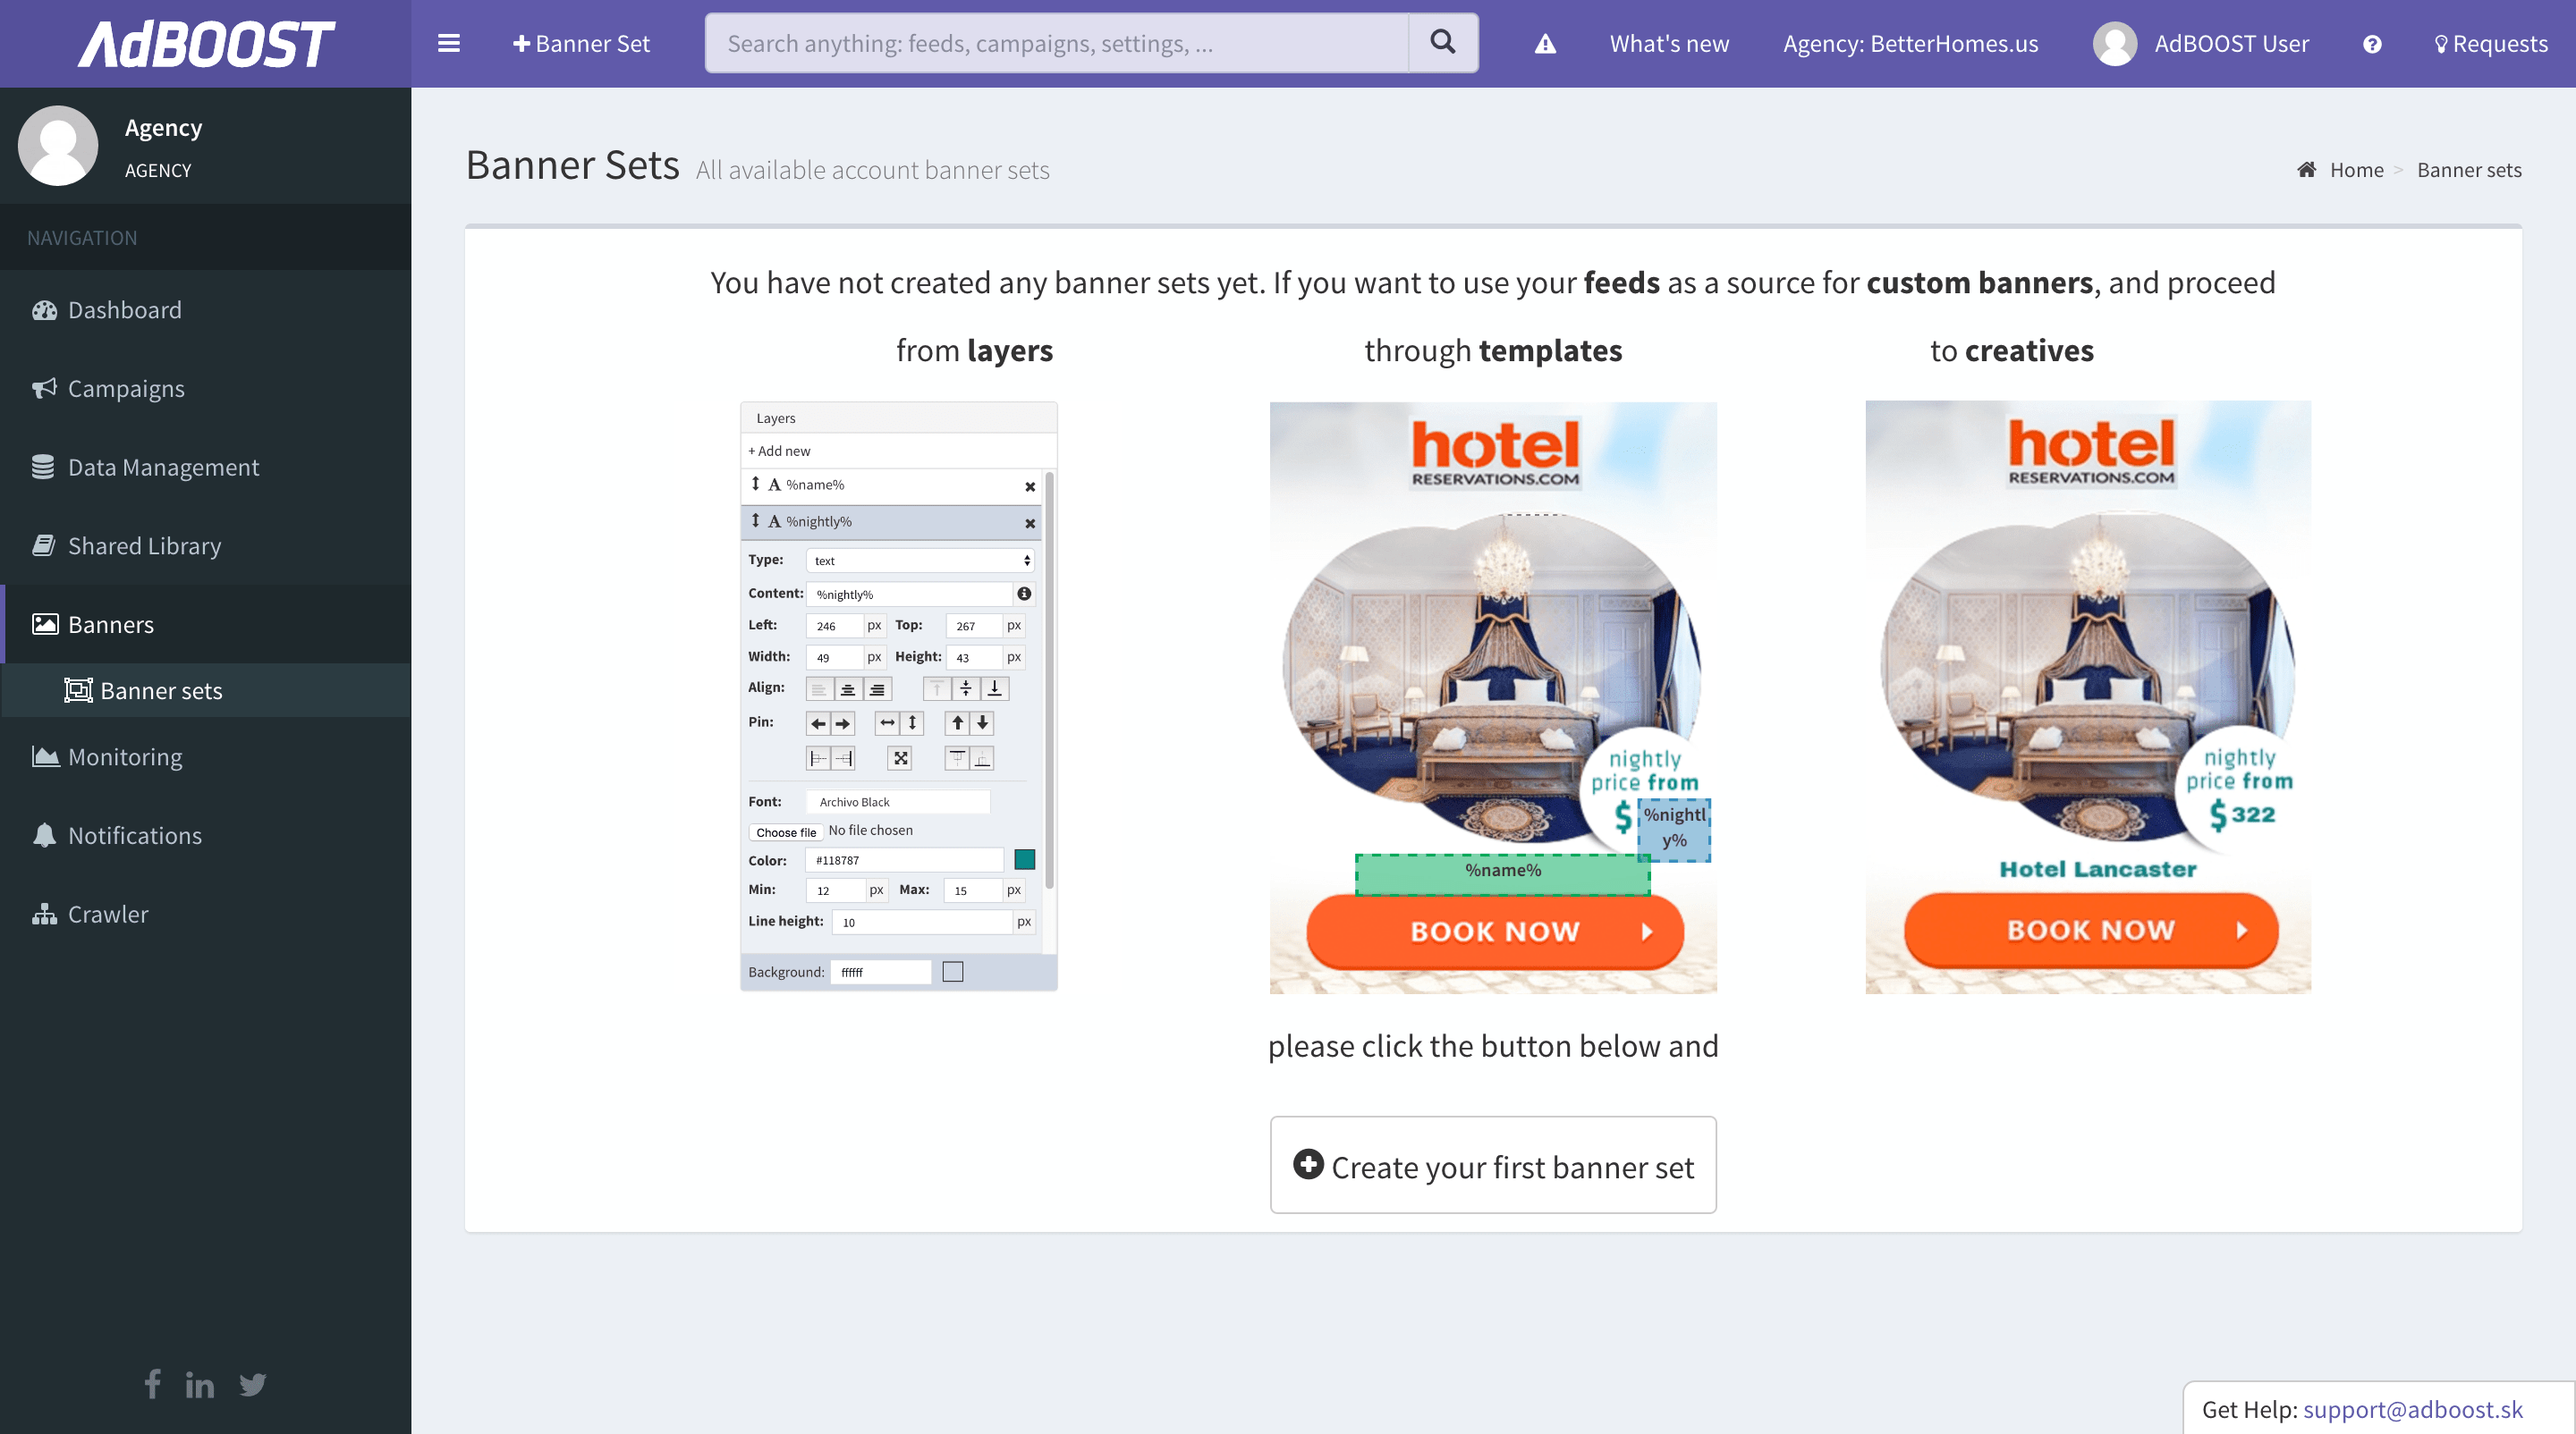
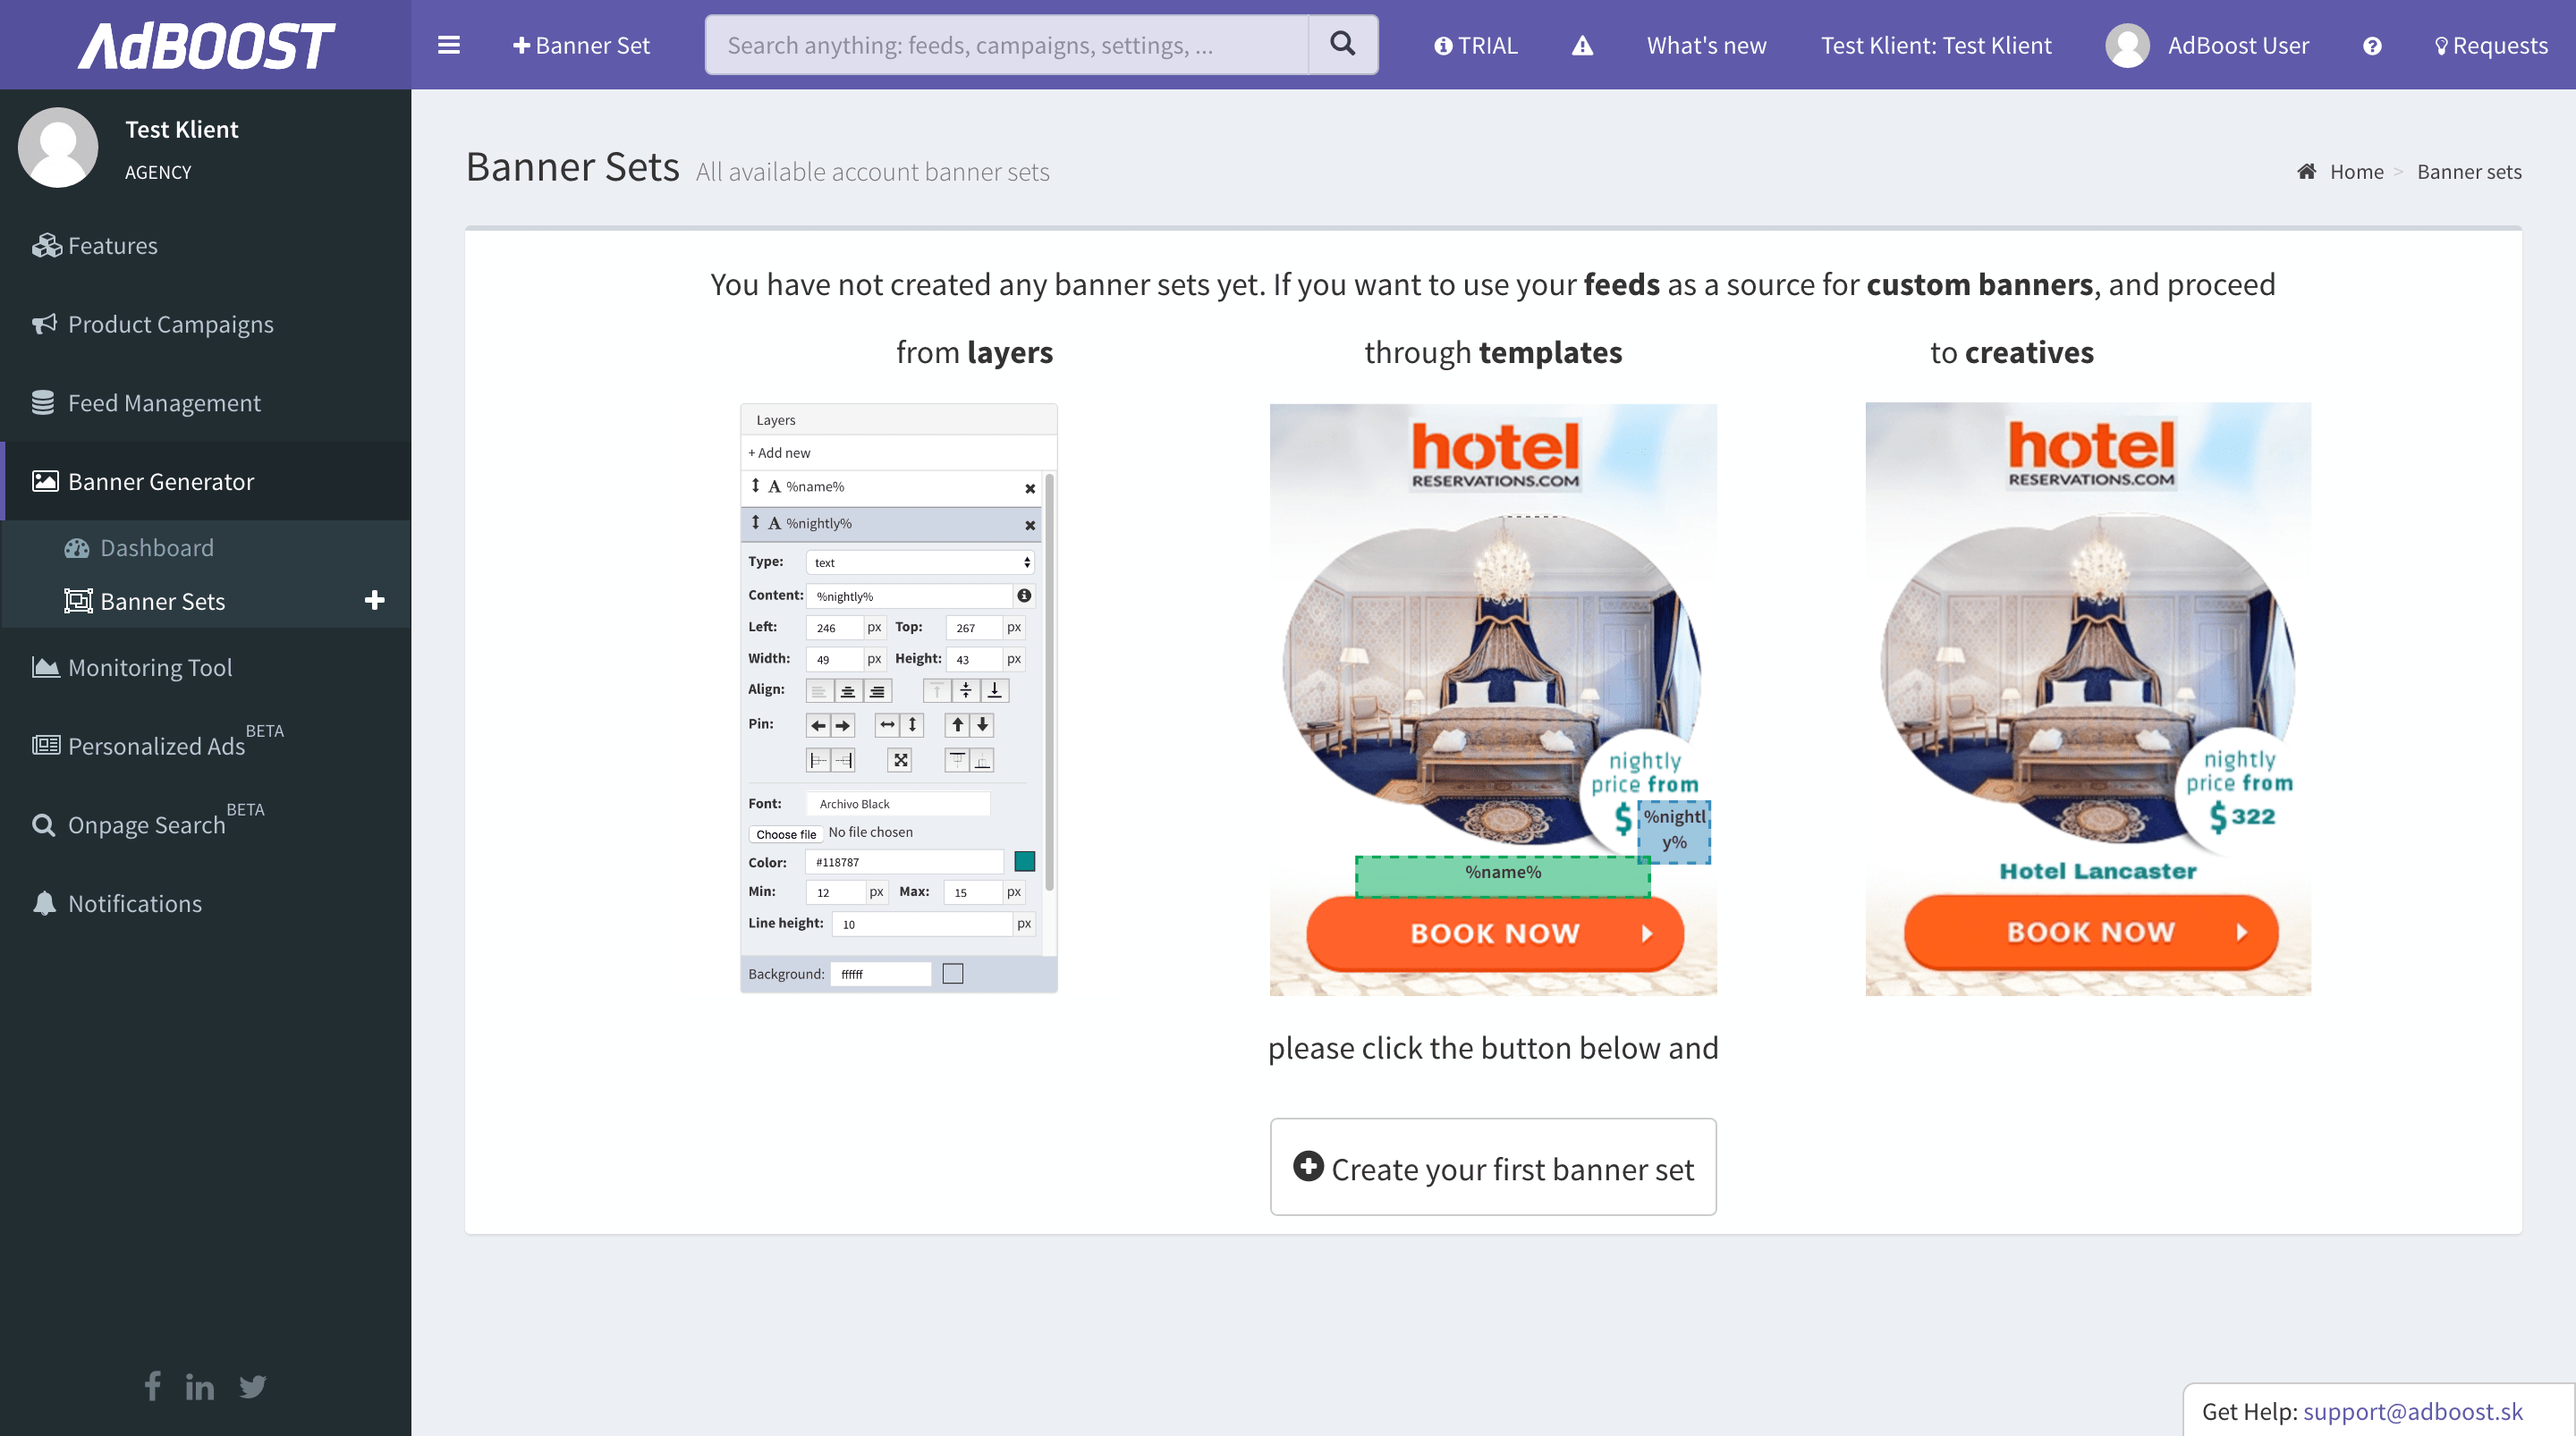
Content update

diff --git a/_posts/2017-01-30-feed-exports.md b/_posts/2017-01-30-feed-exports.md
@@ -15,15 +15,19 @@ tags: [feed, export]
 
 ## Basic setup
 
-In left context menu choose <i class="fa fa-database"></i> Data Management > <i class="fa fa-share"></i> Exports.<br/>
+In left context menu choose <i class="fa fa-database"></i> Feed Management > <i class="fa fa-dashboard"></i> Dashboard or click to large "<i class="fa fa-database"></i> Feed management" icon <br/> on the main dashboard<br/>
 
-{% include image_tag.html url="/images/exports/LeftMenuExport.png" alt="Left Menu Export" style="height:200px;" %}
+{% include image_tag.html url="/images/exports/LeftMenuExport.png" alt="Left Menu Export" style="height:350px;" %}
 
-If you have not created any export yet, you will be greeted by welcome screen consisting of selection of available target networks.
+If you have not created any export yet, you will be greeted by exports dashboard with empty statistics and button that will redirect you to export form. Same applies to <i class="fa fa-plus"></i> icon next to "Exports" in left menu.
+
+{% include image_tag.html url="/images/exports/EmptyDashboard.png" alt="Exports Empty Dashboard" style="" %}
+
+If you click directly to "Exports" in left menu instead, you will be greeted by welcome screen consisting of selection of available target networks.
 
 {% include image_tag.html url="/images/exports/ExportGuidedSetup.png" alt="Export Guided Setup" style="" %}
 
-If you have already created any feed exports, you will see them in listing and you will have the option to create new one by clicking either <span class="btn btn-sm btn-primary"><i class="fa fa-plus"></i> Export</span> button or <span class="btn btn-sm btn-primary"><i class="fa fa-question"></i> Guided setup</span> button
+If you have already created any feed exports, this part will show them to you in form of listing and you will have the option to create new one by clicking either <span class="btn btn-sm btn-primary"><i class="fa fa-plus"></i> Export</span> button or <span class="btn btn-sm btn-primary"><i class="fa fa-question"></i> Guided setup</span> button
 
 {% include image_tag.html url="/images/exports/ExportListing.png" alt="Export Listing" style="" %}
 
